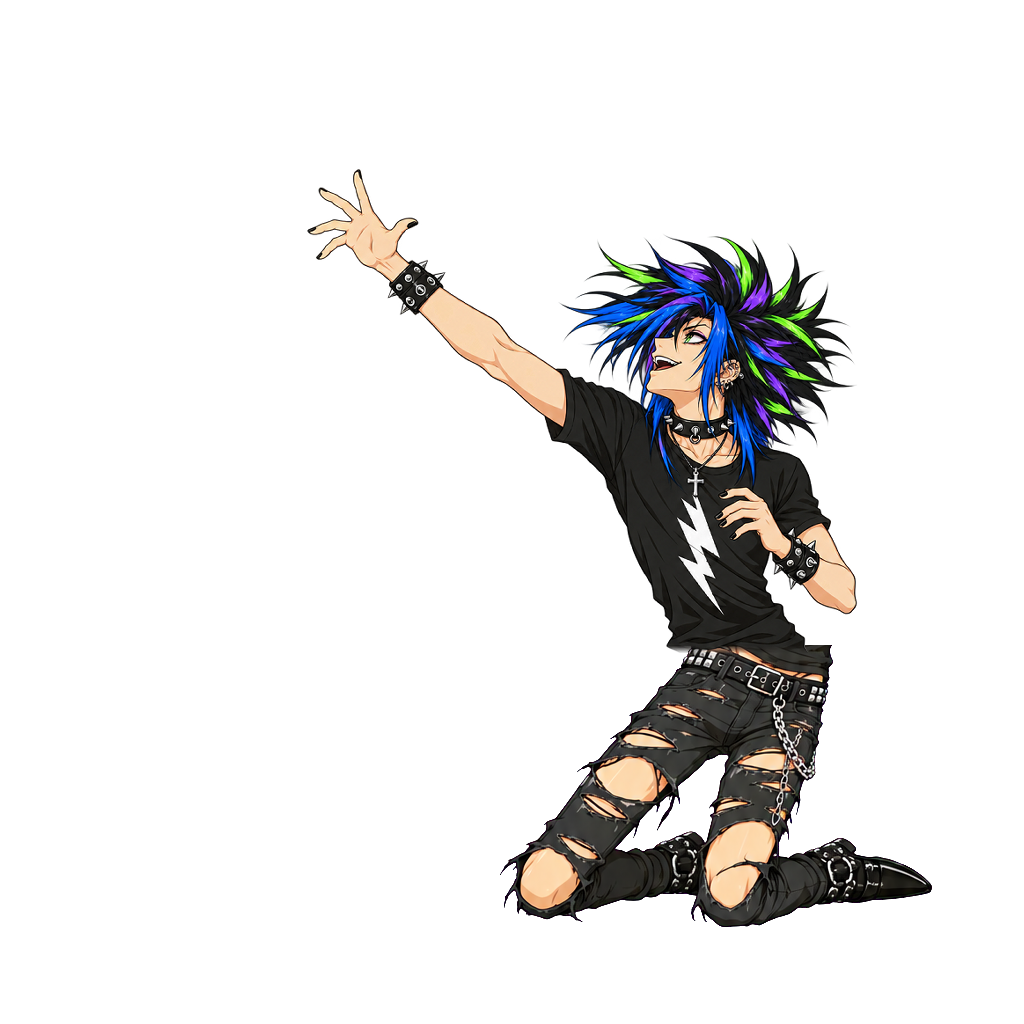
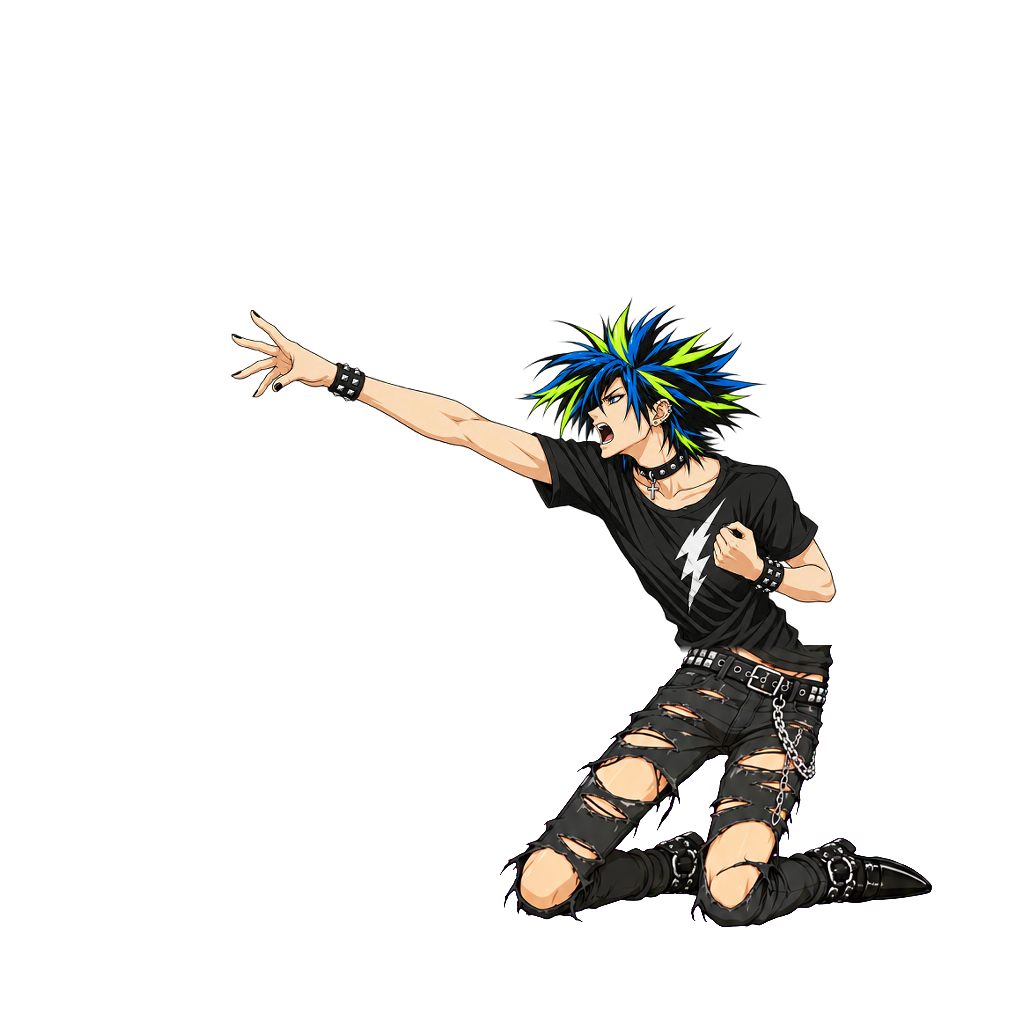
feat: 精美1 B30 thru 第三版——手臂仍伸直往左前压、身体前倾（局部重绘，按腿配准、上半身缩 0.88），seq 接回 thru
图集 cell 365 → 375、anchor x +10.7，cfg anchor / pivot / hold 同步平移。combo_scan buddy 0 / 0 / 0、跨边 0；测试端口与正式页 sweep 0 errors。

Changed region(s): [[0.2188, 0.1562, 0.8438, 0.6562]]

diff --git a/chashouji/web/trio_buddy.js b/chashouji/web/trio_buddy.js
@@ -176,9 +176,9 @@ const TRIO_BUDDY = {
     },
     B30: {      // 杀马特：跪着往后仰滑进来、指天定格，跪地捂脸，指间转着一把蓝梳子，甩飞过去
       face: -1,
-      sheet: { src: 'assets/trio/B30_smart.webp', cell: [365, 368], cols: 4, names: ['idle', 'wind', 'throw', 'follow', 'kneeslide', 'arrive', 'stop', 'idle0', 'swing', 'release', 'thru', 'idle2'] },
+      sheet: { src: 'assets/trio/B30_smart.webp', cell: [375, 368], cols: 4, names: ['idle', 'wind', 'throw', 'follow', 'kneeslide', 'arrive', 'stop', 'idle0', 'swing', 'release', 'thru', 'idle2'] },
       /* 锚点 = 两膝和靴尖之间的地面；在场帧最低点屏幕 y 1333.3。名单里的发胶喷雾引擎还没有 spray，这一版只有飞梳子 */
-      anchor: [217.2, 362.9], at: [795, 1330, 0.92], pivot: [216.9, 360.2],
+      anchor: [227.9, 362.9], at: [795, 1330, 0.92], pivot: [227.6, 360.2],
       leanK: 0,   // 跪在地上：整体前后倾会把膝盖翘起来
       /* anchor y 比图集 json 的 360.9 大 2：加帧重 build 后脚底整体比老图集低 0.9 输出 px，屏幕最低到 1334.7（地板线 1334，combo_scan 记出画），往上提 2（combo_scan 按 alpha > 8 量，羽化边比 alpha 40 的轮廓再低 0.9）回到老图集的位置 */
       depth: 1.3, recipe: 'star',
@@ -186,10 +186,10 @@ const TRIO_BUDDY = {
       exit: { frame: 'kneeslide' },
       idle: { frame: 'idle', breathe: [0.02, 0.9, 0], alt: { frame: 'idle2', every: [0.5, 1.2], hold: [0.6, 1.0] } },
       /* 次级摆动：梳子在指间一直转（idleSpin 大，平面道具按 hang × 0.2 转） */
-      /* 精美1（P6 / P7，美术补帧，蒙版局部重绘）：第二轮（物理一致性，审查第 4 节所需 140°）：wind 指间转梳子 → swing 手收到身后胯旁、手腕后弯 → release 手臂往左上甩直、手指刚松（这一拍离手；握点 swing→release 145.2°、肩→手 146.1°）→ follow；thru（第一轮的往下甩 / 第二轮手往回缩）不进 seq。idle2 = 眨眼比耶。idle0 = 旧的重画 idle（不用），idle2 等引擎 P7 随机切 */
+      /* 精美1（P6 / P7，美术补帧，蒙版局部重绘）：第二轮（物理一致性，审查第 4 节所需 140°）：wind 指间转梳子 → swing 手收到身后胯旁、手腕后弯 → release 手臂往左上甩直、手指刚松（这一拍离手；握点 swing→release 145.2°、肩→手 146.1°）→ follow；→ thru 手臂仍伸直、比 release 更往前压、身体前倾头发往左甩（2026-10-02 第三版；前两版往下甩 / 手往回缩）→ follow。idle2 = 眨眼比耶。idle0 = 旧的重画 idle（不用），idle2 等引擎 P7 随机切 */
       atk: { kind: 'throw', item: 'comb', prop: 'assets/trio/prop_comb.webp', scale: 1.4,   // 1 倍（64px 长）飞起来太小，看不出是梳子
-             seq: [['wind', 0.22], ['swing', 0.08], ['release', 0.1, 'fire'], ['follow', 0.32]], dir: { release: 35.4 },
-             hold: { idle: [164.9, 237.2], wind: [137.9, 67.2], throw: [77.9, 117.2], swing: [344, 256], release: [32, 34], idle2: [164.9, 237.2] },
+             seq: [['wind', 0.22], ['swing', 0.08], ['release', 0.1, 'fire'], ['thru', 0.1], ['follow', 0.26]], dir: { release: 35.4 },
+             hold: { idle: [175.6, 237.2], wind: [148.6, 67.2], throw: [88.6, 117.2], swing: [354.7, 256], release: [42.7, 34], idle2: [175.6, 237.2] },
              T: 0.42, arc: 0.15, spin: 16, idleSpin: 12, stretch: 0.03, gap: [0.5, 0.9], onHit: 'bounce' },
     },
     B22: {      // 悟空：从右下角低身冲刺、一滑落成半跪，双手在腰侧蓄气 → 往前推出水版气功波

diff --git a/chashouji/v14/trio/buddy/B30_smart/prompts.md b/chashouji/v14/trio/buddy/B30_smart/prompts.md
@@ -9,3 +9,5 @@
   swing 生图用 raw/p6d_swing_mask_gen.png（保留原 wind 头发椭圆），贴回用 raw/p6d_swing_mask.png（腰以上全换）。
   swing inpaint-1790849214397-2（f 1.0）、release inpaint-1790848932787-3（f 0.87）、thru inpaint-1790849079978-2（f 0.88）。
   量点（新格内输出像素）：P(351,256) R(32,34) S(148,112) thru 手(56,44)；P→R 145.2°、S→R 146.1°。对比图 p6dcmp.py。
+- thru 重做（2026-10-02 总控）：旧 thru 手往回缩（审查判不进 seq）。底 = p6d_thru_base、蒙版 p6d_thru_mask，提示词"FOLLOW-THROUGH，手臂仍伸直、比 release 更往前、身体前倾、头发往左甩"，
+  inpaint-1790939631376-2，`p6dpaste.py thru <gen> 0.88`（scale 0.660、score 0.948）。图集 cell 365 → 375、anchor x +10.7（cfg 的 anchor / pivot / hold 一起平移）。seq 接回 thru。
